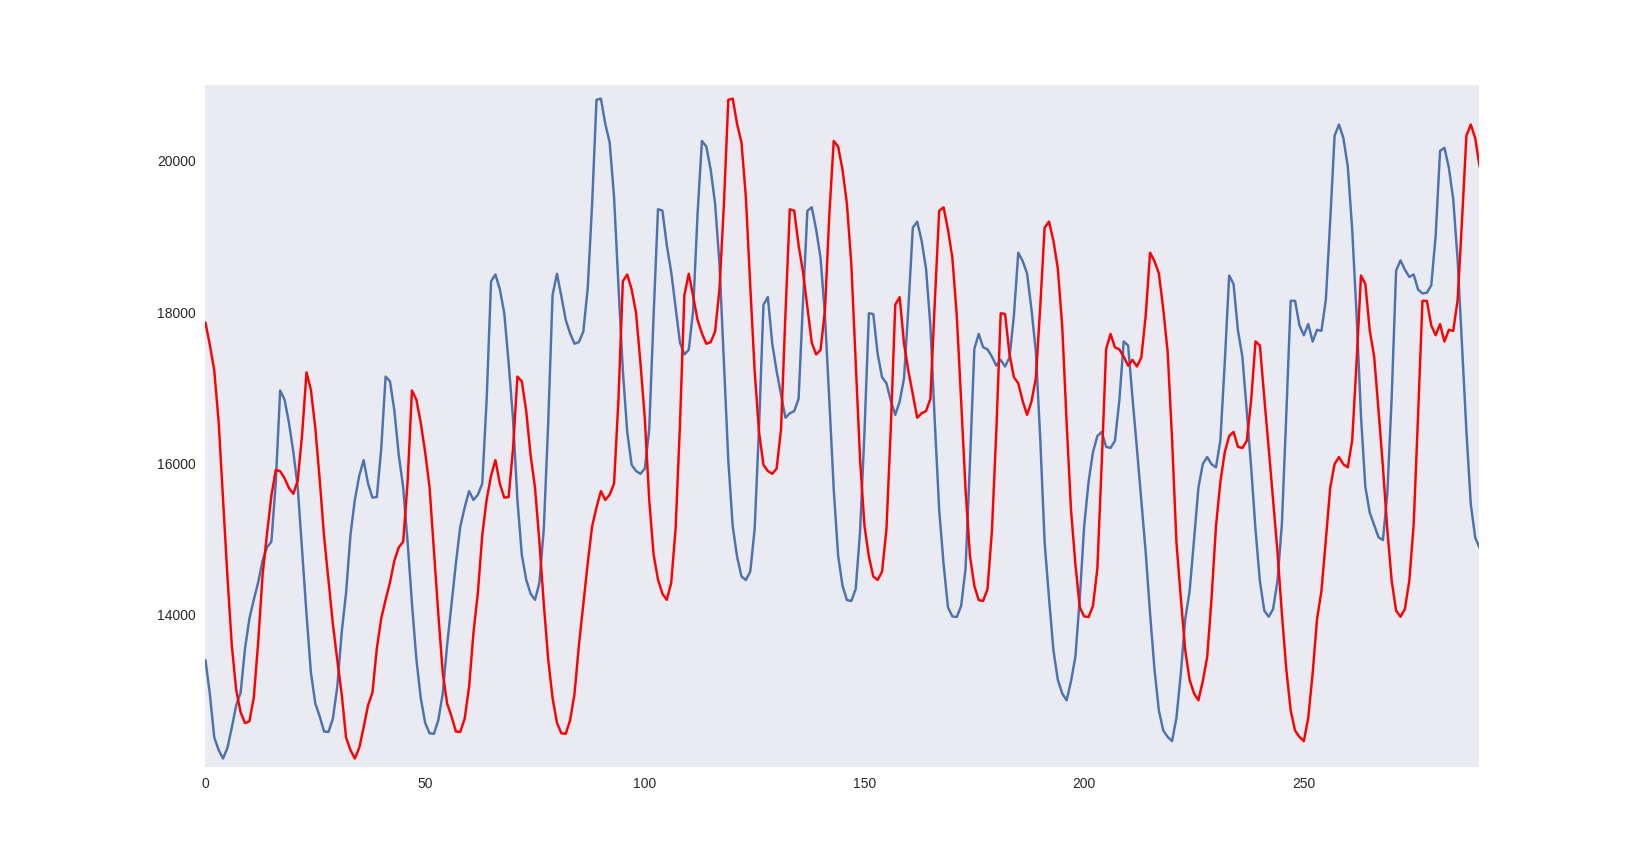
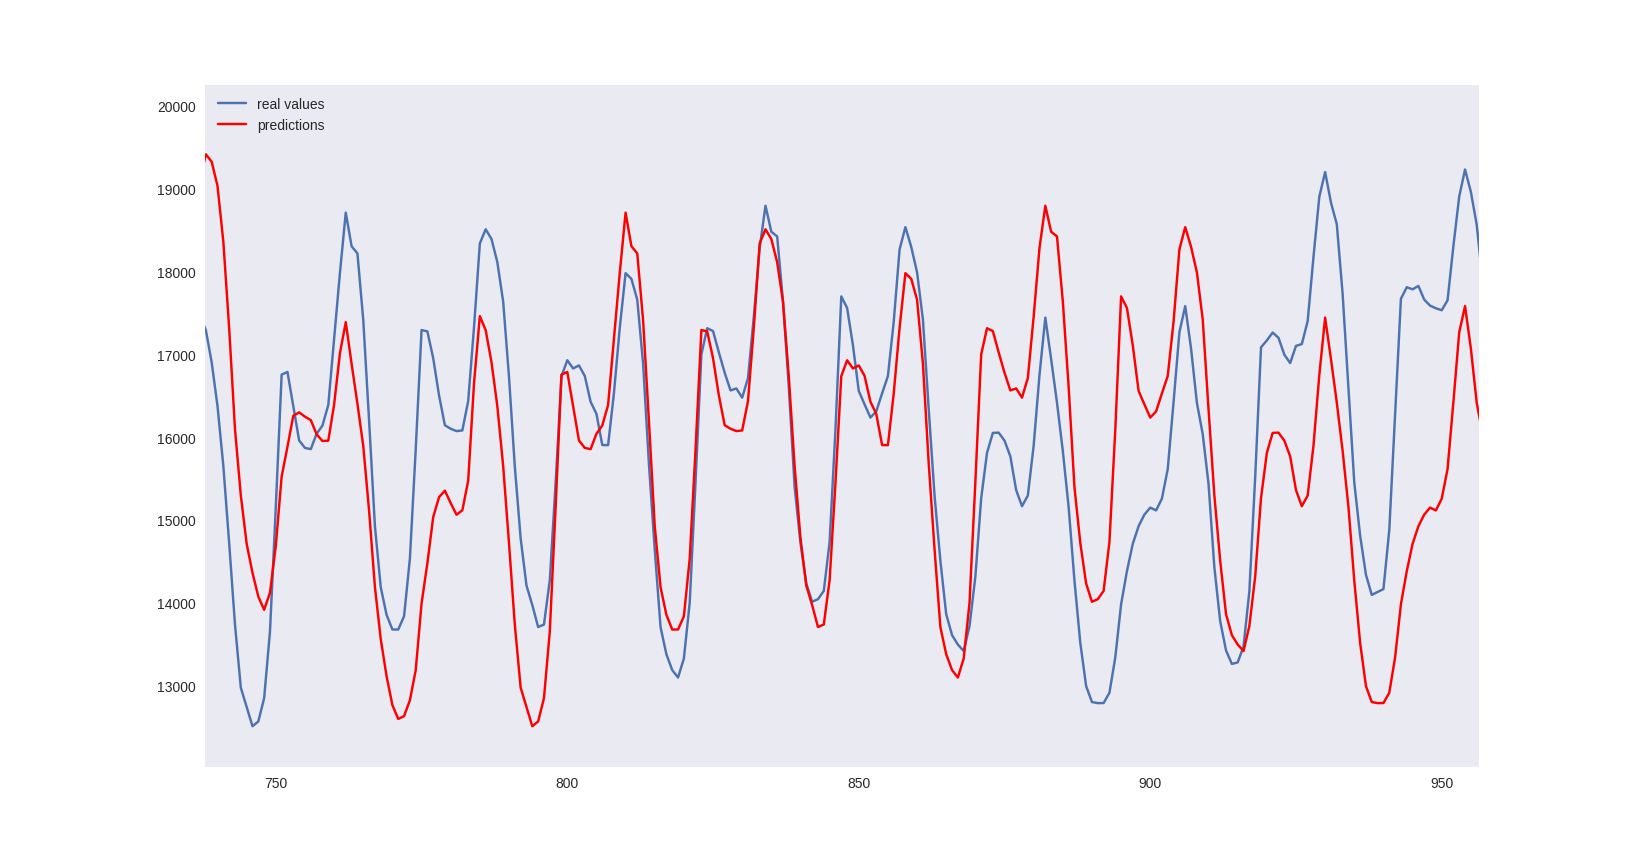
pre final report commit

diff --git a/Statistical Machine Learning/Final Project/Project 2/Time Series Analysis/main.py b/Statistical Machine Learning/Final Project/Project 2/Time Series Analysis/main.py
@@ -1,20 +1,15 @@
 """Time Series Analysis, 2/8/17, Sajad Azami"""
 
-import numpy as np
-import seaborn as sns
-from matplotlib import gridspec
 import matplotlib.pyplot as plt
-import random
+import numpy as np
 import pandas as pd
-import data_preparation
-from arch import arch_model
-import statsmodels.formula.api as smf
-import statsmodels.tsa.api as smt
-import statsmodels.api as sm
-import scipy.stats as scs
-from pandas.tools.plotting import lag_plot
+import seaborn as sns
 from pandas.tools.plotting import autocorrelation_plot
+from pandas.tools.plotting import lag_plot
 from sklearn.metrics import mean_absolute_error
+from statsmodels.tsa.ar_model import AR
+
+import data_preparation
 
 __author__ = 'sajjadaazami@gmail.com (Sajad Azami)'
 sns.set_style("dark")
@@ -26,24 +21,24 @@ print('Data set Loaded!')
 print(data.shape)
 print(label.shape)
 
-# # Plot 2 weeks of data points
-# line = np.linspace(0, 336, 336)
-# plt.plot(line, label[0:336])
-# plt.xlabel('Hour')
-# plt.ylabel('Power Demand')
-# plt.title('Power Demand of first 14 days')
-# plt.show()
-# lag_plot(label)
-#
-# # Plotting the lag plot of target feature
-# plt.title('Lag plot of Power Demand')
-# plt.xlabel('P(t)')
-# plt.ylabel('P(t+1)')
-# plt.show()
-#
-# # Plotting auto-correlation
-# autocorrelation_plot(label[0:1000])
-# plt.show()
+# Plot 2 weeks of data points
+line = np.linspace(0, 336, 336)
+plt.plot(line, label[0:336])
+plt.xlabel('Hour')
+plt.ylabel('Power Demand')
+plt.title('Power Demand of first 14 days')
+plt.show()
+lag_plot(label)
+
+# Plotting the lag plot of target feature
+plt.title('Lag plot of Power Demand')
+plt.xlabel('P(t)')
+plt.ylabel('P(t+1)')
+plt.show()
+
+# Plotting auto-correlation
+autocorrelation_plot(label[0:1000])
+plt.show()
 
 # Splitting train and test data
 train_data, test_data = data[0:119832], data[119832:]
@@ -58,12 +53,12 @@ train_X, train_y = train[:, 0], train[:, 1]
 test_X, test_y = test[:, 0], test[:, 1]
 
 
-# persistence model
+# Persistence model
 def model_persistence(x):
     return x
 
 
-# walk-forward validation
+# Walk-forward validation
 predictions = list()
 for x in test_X:
     y_hat = model_persistence(x)
@@ -71,6 +66,30 @@ for x in test_X:
 test_score = mean_absolute_error(test_y, predictions)
 print('Test MAE: %.3f' % test_score)
 # plot predictions vs expected
-plt.plot(test_y)
-plt.plot(predictions, color='red')
+plt.plot(test_y, label="real values")
+plt.plot(predictions, color='red', label="predictions")
+plt.legend(loc='upper left')
+plt.show()
+
+
+# Implementing Auto Regression Model
+# Training Autoregression
+print(train[:, 1])
+model = AR(train_y)
+model_fit = model.fit()
+print('Lag: %s' % model_fit.k_ar)
+print('Coefficients: %s' % model_fit.params)
+
+# Making predictions
+predictions = model_fit.predict(start=len(train_y), end=len(train_y) + len(test_y) - 1, dynamic=False)
+# for i in range(len(predictions)):
+#     print('predicted=%f, expected=%f' % (predictions[i], test[i]))
+error = mean_absolute_error(test_y, predictions)
+print('Test MAE: %.3f' % error)
+
+# Plotting results
+plt.plot(test_y, label="real values")
+plt.plot(predictions, color='red', label="predictions")
+plt.legend(loc='upper left')
+
 plt.show()
